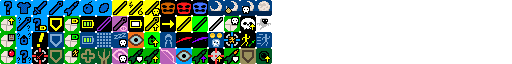
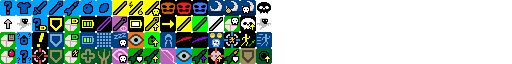
dark arts v1.0

Changed region(s): [[0.0, 0.25, 0.0625, 0.5], [0.5, 0.0, 0.5312, 0.25]]

diff --git a/core/src/main/java/com/shatteredpixel/shatteredpixeldungeon/actors/hero/Talent.java b/core/src/main/java/com/shatteredpixel/shatteredpixeldungeon/actors/hero/Talent.java
@@ -53,6 +53,7 @@ import com.shatteredpixel.shatteredpixeldungeon.items.rings.Ring;
 import com.shatteredpixel.shatteredpixeldungeon.items.scrolls.Scroll;
 import com.shatteredpixel.shatteredpixeldungeon.items.scrolls.ScrollOfRecharging;
 import com.shatteredpixel.shatteredpixeldungeon.items.wands.Wand;
+import com.shatteredpixel.shatteredpixeldungeon.items.wands.WandOfMagicMissile;
 import com.shatteredpixel.shatteredpixeldungeon.items.weapon.Weapon;
 import com.shatteredpixel.shatteredpixeldungeon.items.weapon.melee.MagesStaff;
 import com.shatteredpixel.shatteredpixeldungeon.items.weapon.melee.MeleeWeapon;
@@ -127,7 +128,7 @@ public enum Talent {
 	STAFFCRAFTING(7, 1, WEAPON_MASTERY, ARCANE_MASTERY), STAFFCRAFTING_CHANNELING(8, 2, STAFFCRAFTING), STAFFCRAFTING_EMPOWERED(9, 2, STAFFCRAFTING),
 	BERSERKING(10 , 1, ARMOR_MASTERY, WEAPON_MASTERY), BERSERKING_ANGER(11 , 2, BERSERKING), BERSERKING_DETERMINATION(12 , 2, BERSERKING),
 	DREAMWEAVER(13, 1, AGILITY_MASTERY, ELEMENTAL_MASTERY), DREAMWEAVER_SANDMAN(14, 2, DREAMWEAVER), DREAMWEAVER_NIGHTMARE(15, 2, DREAMWEAVER),
-	ARMOR_ARCANE(0 , 1, ARMOR_MASTERY, ARCANE_MASTERY),
+	DARKARTS(16 , 1, ARMOR_MASTERY, ARCANE_MASTERY), DARKARTS_POWER(32 , 2, DARKARTS), DARKARTS_NECROMANCER(33 , 2, DARKARTS),
 	ARMOR_AGILITY(0, 1, ARMOR_MASTERY, AGILITY_MASTERY),
 	ARMOR_CRAFT(0, 1, ARMOR_MASTERY, CRAFT_MASTERY),
 	ARMOR_ELEMENTS(0, 1, ARMOR_MASTERY, ELEMENTAL_MASTERY),
@@ -261,7 +262,7 @@ public enum Talent {
 				}
 				break;
 			case STAFFCRAFTING:
-				MagesStaff staff = new MagesStaff();
+				MagesStaff staff = new MagesStaff(new WandOfMagicMissile());
 				if (!staff.identify().collect()) {
 					Dungeon.level.drop(staff, hero.pos);
 				}
@@ -528,14 +529,6 @@ public enum Talent {
 
 		if (hero.hasTalent(DREAMWEAVER_NIGHTMARE) && hero.belongings.weapon instanceof MeleeWeapon
 				&& enemy instanceof Mob && ((Mob)enemy).state == ((Mob)enemy).SLEEPING ) {
-			//FIXME: this doesn't work with magical sleep
-			//why
-			//why wouldn't it work
-			//why has god forsaken me
-			//are we here only to suffer and die?
-			//why
-			//update: it worked once and i didn't even touch this wtf is happening
-			//update no.2: it's suddenly working, what the hell?
 			if (hero.pointsInTalent(DREAMWEAVER_NIGHTMARE) == 2) {
 				Dungeon.hero.HP = (int) Math.ceil(Math.min(Dungeon.hero.HT, Dungeon.hero.HP + dmg));
 			}
@@ -628,7 +621,7 @@ public enum Talent {
 				break;
 			case ADVENTURER:
 				//technically all of them are available, but only some of them are visible at the time
-				Collections.addAll(tierTalents, STAFFCRAFTING, BERSERKING, ARMOR_ARCANE, ARMOR_AGILITY, ARMOR_CRAFT,
+				Collections.addAll(tierTalents, STAFFCRAFTING, BERSERKING, DARKARTS, ARMOR_AGILITY, ARMOR_CRAFT,
 												ARMOR_ELEMENTS,	WEAPON_AGILITY, WEAPON_CRAFT, WEAPON_ELEMENTS, ARCANE_AGILITY,
 												ARCANE_CRAFT, ARCANE_ELEMENTS, AGILITY_CRAFT, DREAMWEAVER, CRAFT_ELEMENTS);
 				break;
@@ -653,7 +646,7 @@ public enum Talent {
 				Collections.addAll(tierTalents, POINT_BLANK, SEER_SHOT);
 			case ADVENTURER:
 				Collections.addAll(tierTalents, STAFFCRAFTING_CHANNELING, STAFFCRAFTING_EMPOWERED, BERSERKING_ANGER, BERSERKING_DETERMINATION,
-						DREAMWEAVER_SANDMAN, DREAMWEAVER_NIGHTMARE);
+						DREAMWEAVER_SANDMAN, DREAMWEAVER_NIGHTMARE, DARKARTS_POWER, DARKARTS_NECROMANCER);
 				break;
 		}
 		for (Talent talent : tierTalents){

diff --git a/core/src/main/java/com/shatteredpixel/shatteredpixeldungeon/items/wands/Wand.java b/core/src/main/java/com/shatteredpixel/shatteredpixeldungeon/items/wands/Wand.java
@@ -186,7 +186,8 @@ public abstract class Wand extends Item {
 		}
 
 		if (target != Dungeon.hero &&
-				Dungeon.hero.subClass == HeroSubClass.WARLOCK &&
+				(Dungeon.hero.subClass == HeroSubClass.WARLOCK ||
+				Dungeon.hero.hasTalent(Talent.DARKARTS))&&
 				//standard 1 - 0.92^x chance, plus 7%. Starts at 15%
 				Random.Float() > (Math.pow(0.92f, (wandLevel*chargesUsed)+1) - 0.07f)){
 			SoulMark.prolong(target, SoulMark.class, SoulMark.DURATION + wandLevel);
